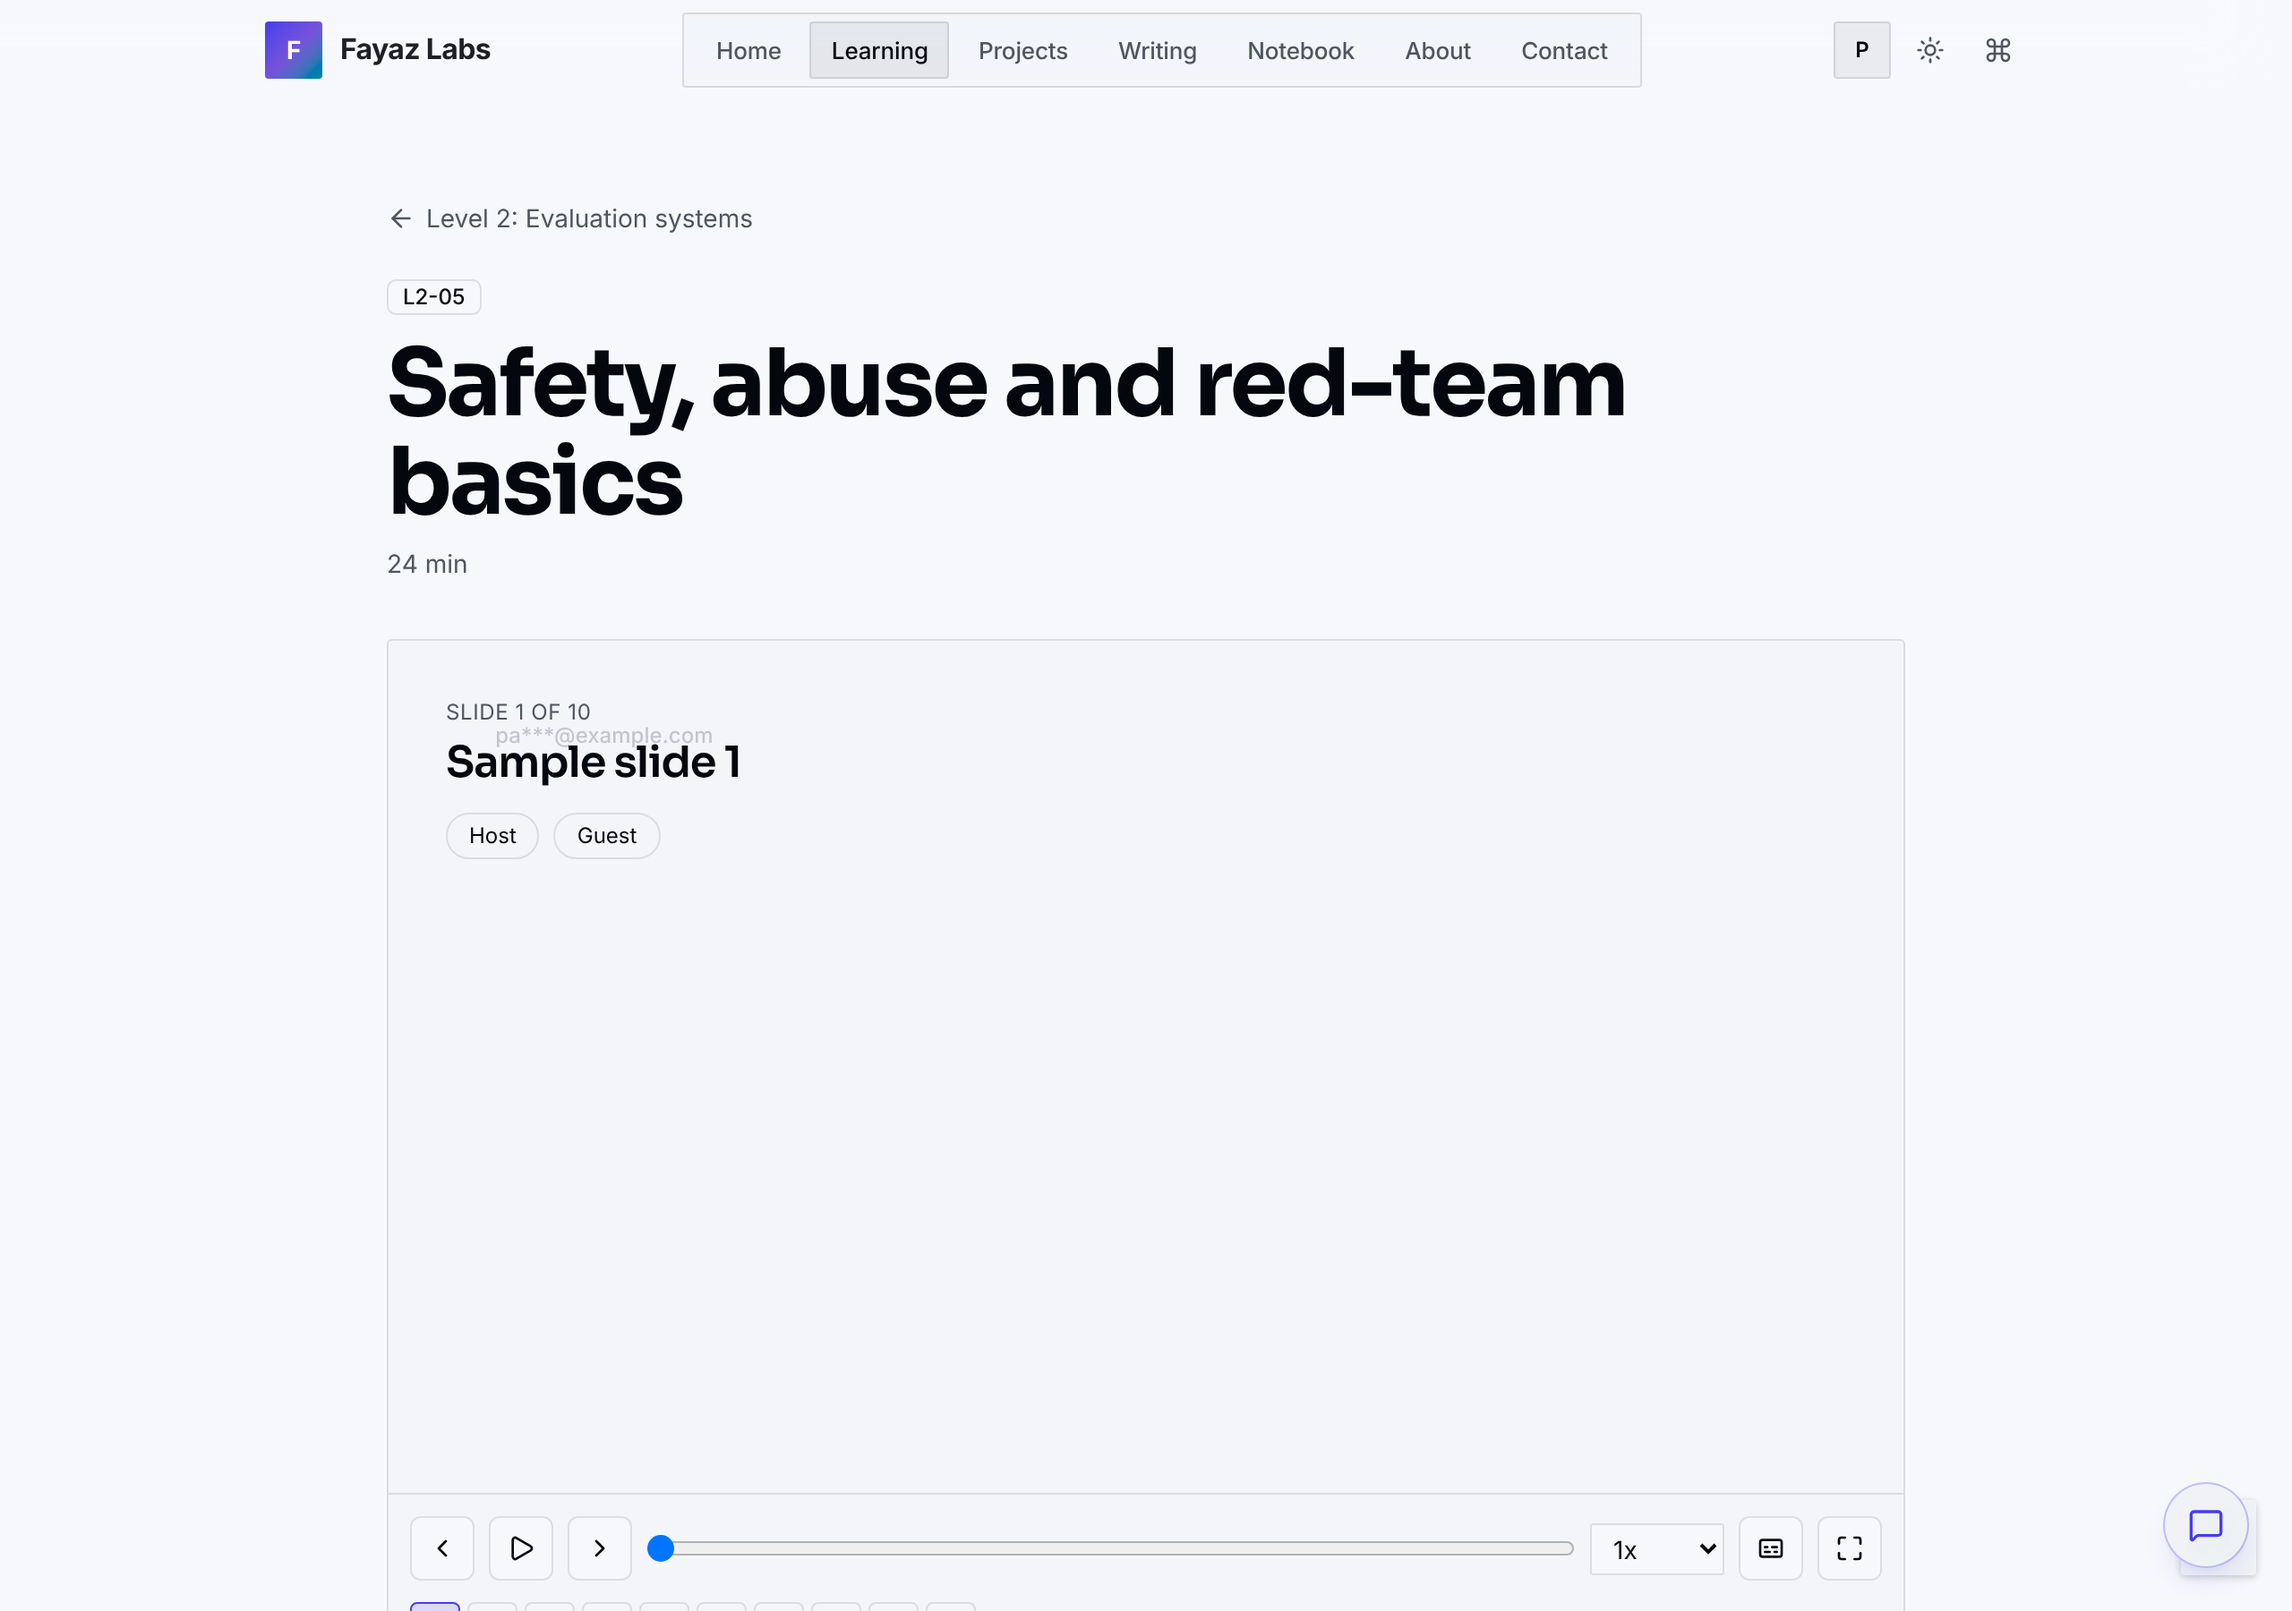
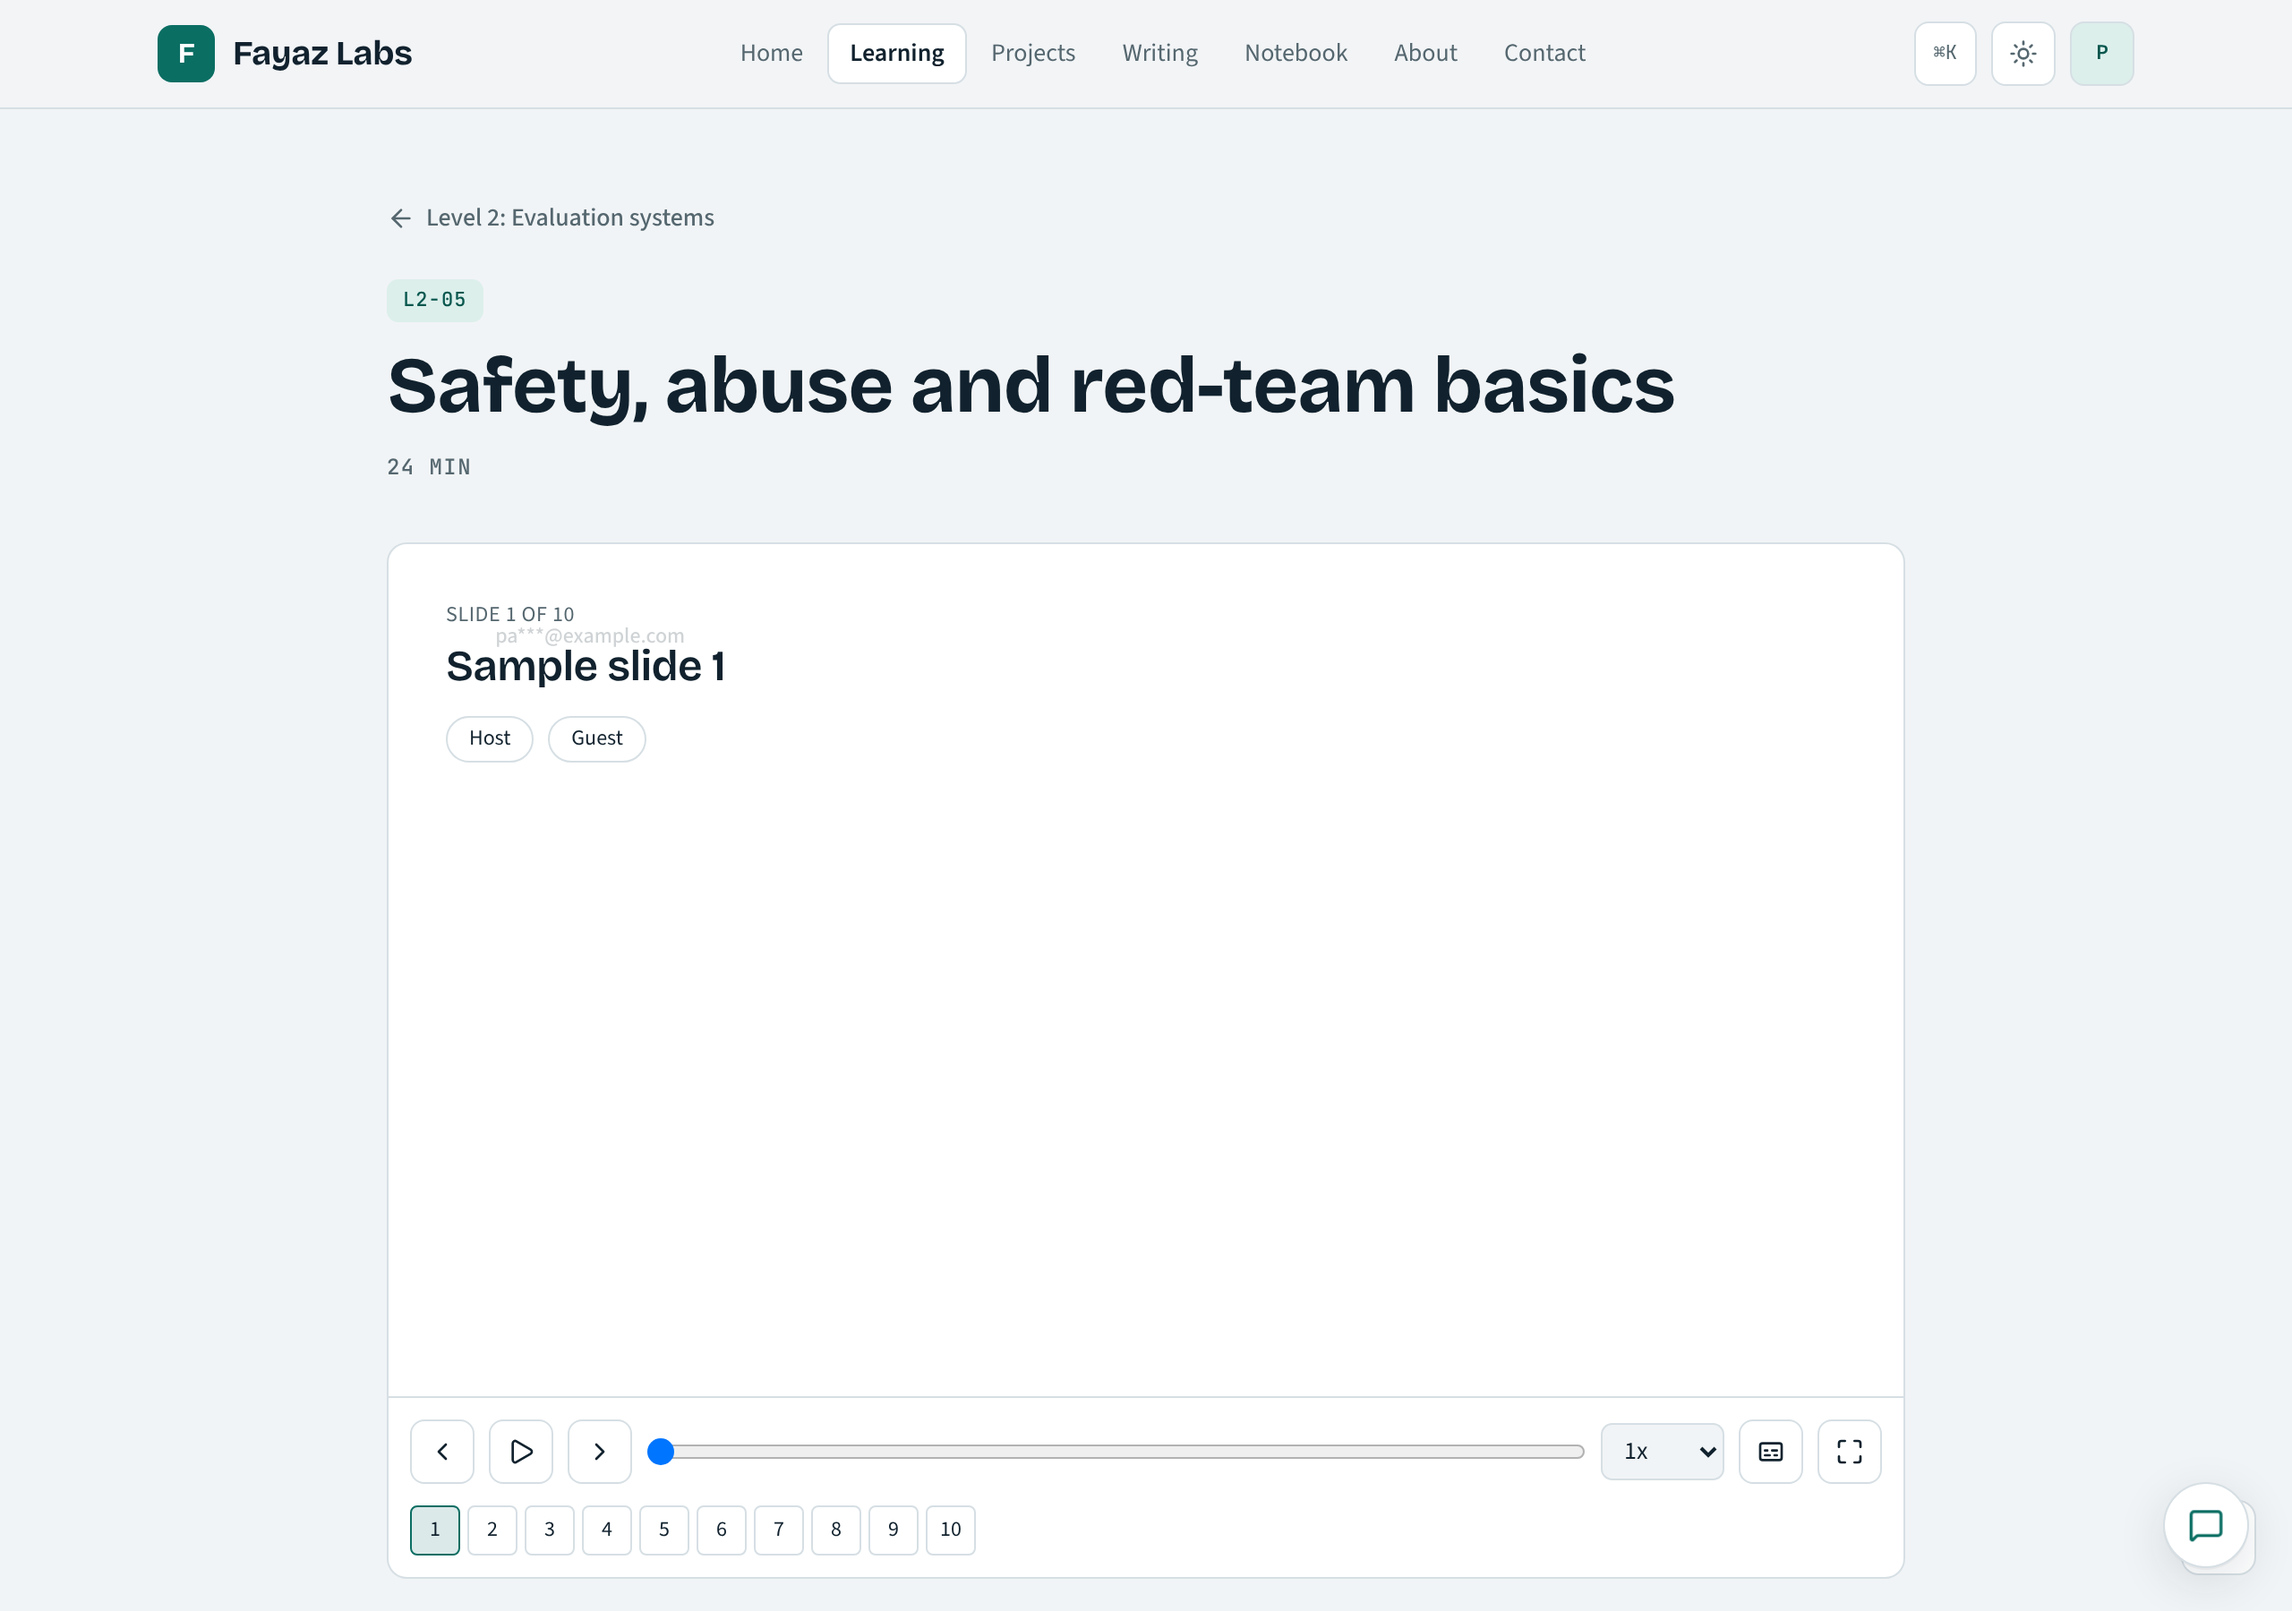
Refresh design-review screenshots; accent native form controls
Claude-Session: https://claude.ai/code/session_01VEfrZxagTGndn47PbiYtQt

diff --git a/src/app/globals.css b/src/app/globals.css
@@ -202,6 +202,10 @@
     letter-spacing: -0.015em;
     text-wrap: balance;
   }
+  /* Native controls (range, checkbox, radio, progress) use the accent */
+  :root {
+    accent-color: var(--primary);
+  }
   ::selection {
     background: var(--accent-soft);
     color: var(--foreground);
